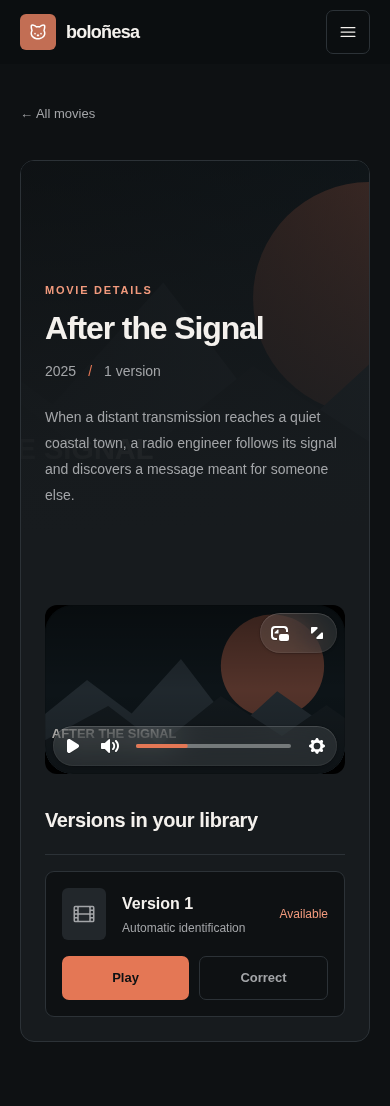
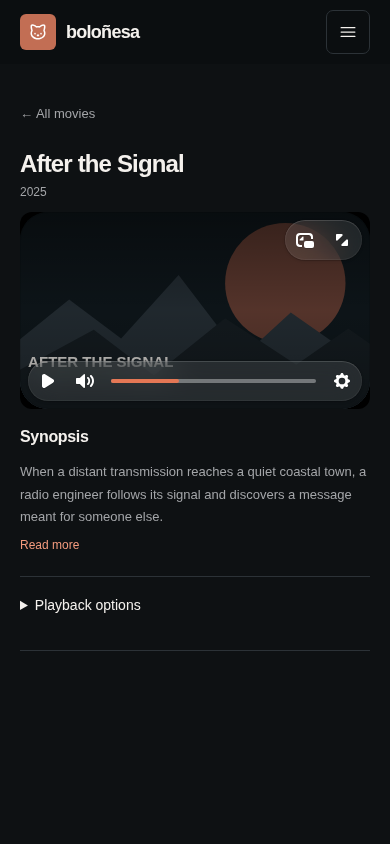
feat(playback): align movie details with episode layout

diff --git a/assets/css/series.css b/assets/css/series.css
@@ -31,14 +31,6 @@
 .series-search-submit { background: transparent; color: var(--color-muted); padding-inline: 12px; }
 .series-search-submit:hover { background: var(--color-raised); }
 .series-catalog .media-toolbar { border: 0; padding: 0; gap: 12px; }
-.series-synopsis { margin-bottom: 24px; color: var(--color-muted); font-size: 13px; line-height: 1.75; }
-.series-synopsis summary { list-style: none; cursor: pointer; }
-.series-synopsis summary::-webkit-details-marker { display: none; }
-.series-synopsis-text { display: -webkit-box; -webkit-box-orient: vertical; -webkit-line-clamp: 3; overflow: hidden; }
-.series-synopsis[open] .series-synopsis-text { display: block; }
-.series-read-more, .series-read-less { display: block; margin-top: 6px; color: var(--color-accent-soft); font-size: 12px; }
-.series-read-less, .series-synopsis[open] .series-read-more { display: none; }
-.series-synopsis[open] .series-read-less { display: block; }
 .series-detail-panel .media-hero-content { min-height: 180px; padding: 60px 20px 24px; }
 .series-detail-panel .media-hero-copy h1 { font-size: 34px; }
 .series-detail-panel .media-hero-copy > p { margin-top: 12px; }
@@ -48,7 +40,7 @@
 .episode-heading { margin-bottom: 12px; overflow-wrap: anywhere; }
 .episode-player { margin-top: 0; }
 .episode-synopsis { margin-top: 16px; margin-bottom: 20px; }
-.episode-synopsis .series-synopsis { margin-bottom: 0; }
+.episode-synopsis .media-expandable-synopsis { margin-bottom: 0; }
 .playback-options { padding-bottom: 16px; border-top: 1px solid var(--color-border); border-bottom: 1px solid var(--color-border); }
 .playback-options > summary { padding: 18px 0; cursor: pointer; font-size: 14px; }
 .episode-version { padding: 14px; border: 1px solid var(--color-border); border-radius: 8px; background: var(--color-surface); }

diff --git a/assets/css/movie.css b/assets/css/movie.css
@@ -1,6 +1,5 @@
 /* Movie versions complement the shared media header and catalog. */
-.movie-detail-body { padding: 24px; }
-.movie-versions-heading { margin-top: 32px; padding-bottom: 20px; border-bottom: 1px solid var(--color-border); }
+.movie-versions-heading { margin-top: 8px; padding-bottom: 12px; border-bottom: 1px solid var(--color-border); }
 .movie-version-card { display: flex; flex-wrap: wrap; align-items: center; gap: 16px; padding: 16px; border: 1px solid var(--color-border); border-radius: 9px; background: var(--color-canvas); }
 .movie-version-summary { display: flex; align-items: center; gap: 16px; flex: 1; min-width: 160px; overflow-wrap: anywhere; }
 .movie-version-icon { display: flex; flex-shrink: 0; align-items: center; justify-content: center; width: 44px; height: 52px; border-radius: 6px; background: var(--color-raised); color: var(--color-muted); }
@@ -9,7 +8,12 @@
 .movie-version-actions { display: flex; flex-wrap: wrap; gap: 10px; width: 100%; }
 .movie-version-actions > * { flex: 1; }
 @media (min-width: 640px) {
-  .movie-detail-body { padding: 24px 32px 32px; }
   .movie-version-actions { width: auto; }
   .movie-version-actions > * { flex: none; }
 }
+
+.movie-heading { margin-bottom: 12px; overflow-wrap: anywhere; }
+.movie-player { margin-top: 0; }
+.movie-synopsis { margin: 16px 0 20px; }
+.movie-synopsis .media-expandable-synopsis { margin-bottom: 0; }
+.movie-selected { display: inline-block; margin-top: 4px; padding: 2px 6px; border-radius: 4px; color: var(--color-accent-soft); background: #e4775519; font-size: 10px; }

diff --git a/assets/css/media.css b/assets/css/media.css
@@ -49,3 +49,12 @@
 @media (min-width: 1440px) {
   .media-poster-grid { grid-template-columns: repeat(5, minmax(0, 1fr)); }
 }
+
+.media-expandable-synopsis { margin-bottom: 24px; color: var(--color-muted); font-size: 13px; line-height: 1.75; }
+.media-expandable-synopsis summary { list-style: none; cursor: pointer; }
+.media-expandable-synopsis summary::-webkit-details-marker { display: none; }
+.media-expandable-synopsis-text { display: -webkit-box; -webkit-box-orient: vertical; -webkit-line-clamp: 3; overflow: hidden; }
+.media-expandable-synopsis[open] .media-expandable-synopsis-text { display: block; }
+.media-read-more, .media-read-less { display: block; margin-top: 6px; color: var(--color-accent-soft); font-size: 12px; }
+.media-read-less, .media-expandable-synopsis[open] .media-read-more { display: none; }
+.media-expandable-synopsis[open] .media-read-less { display: block; }

diff --git a/docs/status.md b/docs/status.md
@@ -1,8 +1,17 @@
 # Project status
 
-Last reviewed: 2026-10-22.
+Last reviewed: 2026-10-23.
 
 ## Implemented behavior
+
+Movie detail now follows the episode playback layout: a compact title/year heading,
+a prominent player, a shared expandable synopsis, and versions inside playback options.
+The selected version is indicated and playback errors offer the existing retry action.
+The movie catalog is unchanged. Local `mix precommit` passed compilation, formatting,
+Credo and 635 tests with one skipped; `node --test assets/test/*.mjs` passed 23 tests.
+`make screenshots` passed desktop/mobile browser checks, including movie playback and
+manual-correction navigation; the movie detail/player captures were updated and visually
+reviewed. These changes are local and not deployed; real-device verification is pending.
 
 Movies, Series, and Music independently own their content and recovery. Inspection and content requests now commit directly with their linked Oban jobs; the four intermediate event tables and polling dispatchers have been removed. Video identities use independent sequences; Playback selects movies and episodes with explicit typed references. Bolognesa supports movie, series, and music libraries; recoverable scanning and technical inspection; TMDb identification and manual corrections; library-scoped catalog browsing; authorized direct playback; and optional FFmpeg/HLS video playback. Original media remains read-only. Scanning and identification are separate steps; automatic lookup requires a runtime TMDb token.
 
